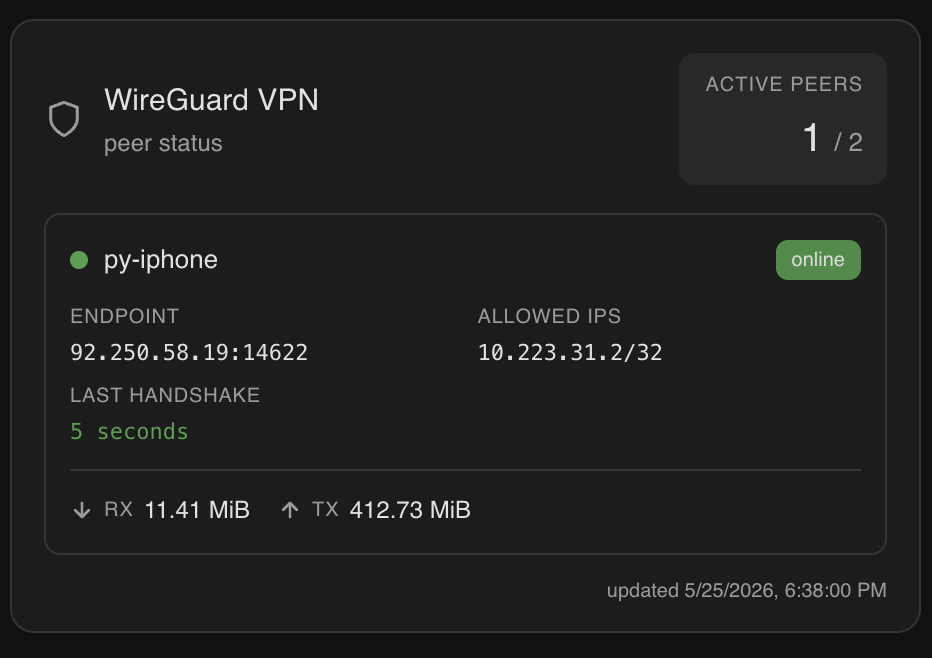
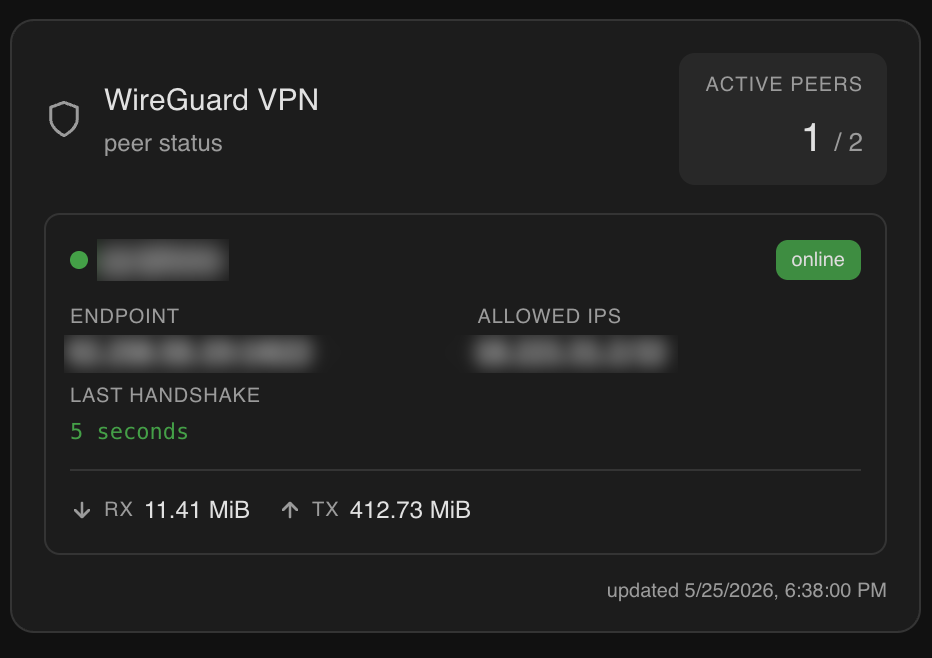
updated readmes and images

diff --git a/README.md b/README.md
@@ -14,16 +14,27 @@ A clean, minimal Lovelace card for [Home Assistant](https://www.home-assistant.i
 | Online peer | Offline peer |
 |---|---|
 | Green dot · `online` badge · handshake in seconds | Grey dot · `offline` badge · handshake in hours |
-![WireGuard Card connected](assets/card-connected.png)
-
-![WireGuard Card no connections](assets/card-connected-no-active-connections.png)
+| ![WireGuard Card connected](assets/card-connected.png) | ![WireGuard Card no connections](assets/card-connected-no-active-connections.png) |
 
 Each peer card shows:
 - **Connection status** — colour-coded dot and badge
 - **Endpoint** — public IP and port
 - **Allowed IPs** — the peer's tunnel address
-- **Last handshake** — human-readable, highlighted green when fresh
+- **Last handshake** — human-readable, highlighted green when the peer is online
 - **Transfer stats** — rx / tx in human-readable units
+
+---
+
+## No YAML required
+
+The card ships with a built-in **visual editor**, so you can set it up directly from the dashboard UI — no YAML editing needed. From the editor you can change:
+
+- **Sensor entity** — pick the `sensor.vpn_stats` entity that feeds the card
+- **Card title** — override the header title, or leave it empty for the localized default
+- **Connected only** — toggle to hide offline peers
+- **Language** — force the card's UI language, or leave it on `Auto` to follow Home Assistant
+
+See [Visual editor](assets/card-config.png) for details.
 
 ---
 

diff --git a/README.es.md b/README.es.md
@@ -19,8 +19,21 @@ Cada tarjeta de peer muestra:
 - **Estado de conexión** — punto y etiqueta con código de color
 - **Endpoint** — IP pública y puerto
 - **IPs permitidas** — la dirección del túnel del peer
-- **Último handshake** — en formato legible, resaltado en verde cuando es reciente
+- **Último handshake** — en formato legible, resaltado en verde cuando el peer está en línea
 - **Estadísticas de transferencia** — rx / tx en unidades legibles
+
+---
+
+## Sin YAML necesario
+
+La tarjeta incluye un **editor visual** integrado, así que puedes configurarla directamente desde la UI del panel — sin editar YAML. Desde el editor puedes cambiar:
+
+- **Entidad del sensor** — elige la entidad `sensor.vpn_stats` que alimenta la tarjeta
+- **Título de la tarjeta** — sustituye el título del encabezado, o déjalo vacío para usar el predeterminado localizado
+- **Solo conectados** — actívalo para ocultar los peers desconectados
+- **Idioma** — fuerza el idioma de la UI de la tarjeta, o déjalo en `Automático` para seguir a Home Assistant
+
+Consulta [Editor visual](assets/card-config.png) para más detalles.
 
 ---
 

diff --git a/README.fr.md b/README.fr.md
@@ -19,8 +19,21 @@ Chaque carte de pair affiche :
 - **État de connexion** — point et badge avec code couleur
 - **Endpoint** — IP publique et port
 - **IPs autorisées** — l'adresse du tunnel du pair
-- **Dernier handshake** — au format lisible, surligné en vert lorsqu'il est récent
+- **Dernier handshake** — au format lisible, surligné en vert lorsque le pair est en ligne
 - **Statistiques de transfert** — rx / tx en unités lisibles
+
+---
+
+## Aucun YAML requis
+
+La carte inclut un **éditeur visuel** intégré, vous pouvez donc la configurer directement depuis l'UI du tableau de bord — sans toucher au YAML. Depuis l'éditeur, vous pouvez modifier :
+
+- **Entité du capteur** — choisissez l'entité `sensor.vpn_stats` qui alimente la carte
+- **Titre de la carte** — remplacez le titre de l'en-tête, ou laissez vide pour utiliser la valeur par défaut localisée
+- **Connectés uniquement** — activez pour masquer les pairs hors ligne
+- **Langue** — forcez la langue de l'UI de la carte, ou laissez sur `Auto` pour suivre Home Assistant
+
+Voir [Éditeur visuel](assets/card-config.png) pour plus de détails.
 
 ---
 

diff --git a/README.de.md b/README.de.md
@@ -19,8 +19,21 @@ Jede Peer-Karte zeigt:
 - **Verbindungsstatus** — farbcodierter Punkt und Plakette
 - **Endpunkt** — öffentliche IP und Port
 - **Erlaubte IPs** — Tunneladresse des Peers
-- **Letzter Handshake** — in lesbarer Form, grün hervorgehoben wenn aktuell
+- **Letzter Handshake** — in lesbarer Form, grün hervorgehoben wenn der Peer online ist
 - **Übertragungsstatistiken** — rx / tx in lesbaren Einheiten
+
+---
+
+## Kein YAML erforderlich
+
+Die Karte enthält einen integrierten **visuellen Editor**, sodass Sie sie direkt über die Dashboard-UI konfigurieren können — ohne YAML zu bearbeiten. Im Editor können Sie Folgendes ändern:
+
+- **Sensor-Entität** — wählen Sie die Entität `sensor.vpn_stats`, die die Karte speist
+- **Kartentitel** — überschreiben Sie den Titel der Kopfzeile, oder lassen Sie ihn leer für den lokalisierten Standard
+- **Nur verbundene** — aktivieren, um Offline-Peers auszublenden
+- **Sprache** — erzwingen Sie die UI-Sprache der Karte, oder lassen Sie sie auf `Automatisch`, um Home Assistant zu folgen
+
+Siehe [Visueller Editor](assets/card-config.png) für Details.
 
 ---
 

diff --git a/README.pt.md b/README.pt.md
@@ -19,8 +19,21 @@ Cada cartão de peer mostra:
 - **Estado da ligação** — ponto e selo com código de cor
 - **Endpoint** — IP pública e porta
 - **IPs permitidos** — o endereço de túnel do peer
-- **Último handshake** — em formato legível, destacado a verde quando recente
+- **Último handshake** — em formato legível, destacado a verde quando o peer está online
 - **Estatísticas de transferência** — rx / tx em unidades legíveis
+
+---
+
+## Sem YAML necessário
+
+O cartão inclui um **editor visual** integrado, por isso pode configurá-lo diretamente na UI do painel — sem editar YAML. No editor pode alterar:
+
+- **Entidade do sensor** — escolha a entidade `sensor.vpn_stats` que alimenta o cartão
+- **Título do cartão** — substitua o título do cabeçalho, ou deixe vazio para usar o padrão localizado
+- **Apenas conectados** — ative para ocultar peers desconectados
+- **Idioma** — force o idioma da UI do cartão, ou deixe em `Automático` para seguir o Home Assistant
+
+Consulte [Editor visual](assets/card-config.png) para mais detalhes.
 
 ---
 
